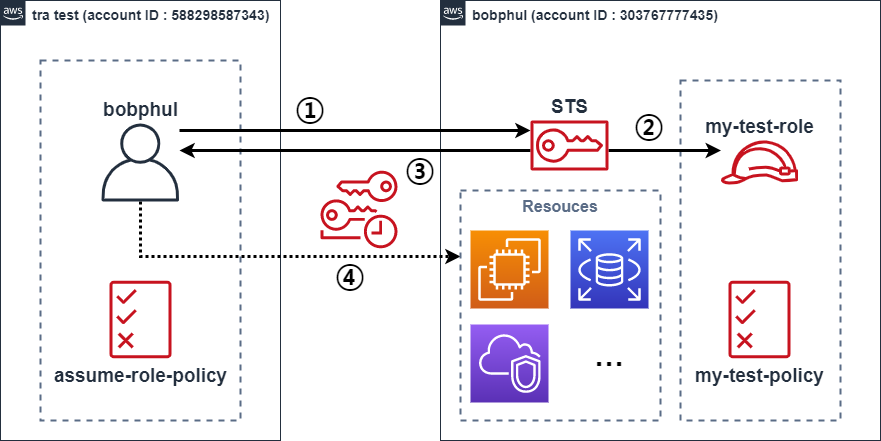
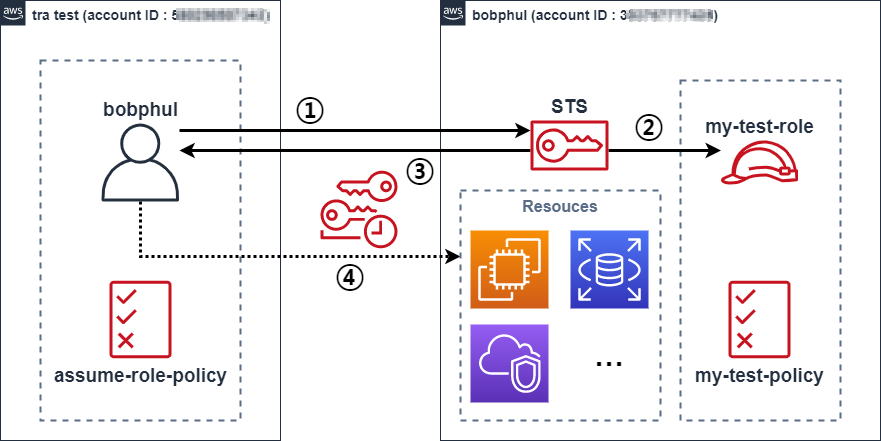
text fixed

Changed region(s): [[0.7049, 0.0, 0.8275, 0.059], [0.1839, 0.0, 0.3065, 0.059]]

diff --git a/IAM-Cross-Account-Control.md b/IAM-Cross-Account-Control.md
@@ -6,7 +6,7 @@ IAM Cross Account 테스트 용도로 구성
 일반적으로 계정 내 또는 계정 간 액세스에 사용하게 된다.
 
 # Environment
-- TRA Test 계정(`588298587343`)과 개인 Test 계정(`303767777435`)
+- TRA Test 계정(`5XXXXXXXXXX`)과 개인 Test 계정(`3XXXXXXXXXX`)
 - TRA Test 계정 <u>IAM 사용자</u>로 개인 계정 <u>IAM 사용자 없이</u> 콘솔에 로그인하여 사용 할 수 있다.
 - **모든 리소스**를 생성하고 삭제까지 가능하도록 **모든 권한**을 부여한다.
 
@@ -44,7 +44,7 @@ name : my-test-role
     {
       "Effect": "Allow",
       "Principal": {
-        "AWS": "arn:aws:iam::588298587343:user/bobphul"
+        "AWS": "arn:aws:iam::5XXXXXXXXXX:user/bobphul"
       },
       "Action": "sts:AssumeRole",
       "Condition": {}
@@ -53,7 +53,7 @@ name : my-test-role
 }
 ```
 Copy Role ARN & console link  
-`arn:aws:iam::303767777435:role/my-test-role`  
+`arn:aws:iam::3XXXXXXXXXX:role/my-test-role`  
 https://signin.aws.amazon.com/switchrole?roleName=my-test-role&account=2012504
 
 ## ~~TRA계정~~
@@ -67,7 +67,7 @@ name : assume-role-policy
     "Statement": {
         "Effect": "Allow",
         "Action": "sts:AssumeRole",
-        "Resource": "arn:aws:iam::303767777435:role/my-test-role"
+        "Resource": "arn:aws:iam::3XXXXXXXXXX:role/my-test-role"
     }
 }
 ```
@@ -85,7 +85,7 @@ C:\Users\<사용자>\.aws\credentials
 ```
 STS(Security Token Service)통한 Assume role 접근
 ```
-aws sts assume-role --role-arn "arn:aws:iam::303767777435:role/my-test-role" --role-session-name "MyTestSession01"
+aws sts assume-role --role-arn "arn:aws:iam::3XXXXXXXXXX:role/my-test-role" --role-session-name "MyTestSession01"
 ```
 
 AWS CLI 요청자 변경 확인
@@ -125,7 +125,7 @@ AWS CLI config 파일 추가
 [profile iamtest]
 region = ap-northeast-2
 source_profile = tratest
-role_arn = arn:aws:iam::303767777435:role/my-test-role
+role_arn = arn:aws:iam::3XXXXXXXXXX:role/my-test-role
 ```
 추가 설정 profile로 명령어 실행
 ```

diff --git a/KMS.md b/KMS.md
@@ -72,11 +72,11 @@ AWS KMS는 지정된 CMK를 이용해서 데이터키를 만든다.
 
 데이터 키 생성 예제  
 ```
-    aws kms generate-data-key --key-id arn:aws:kms:ap-northeast-2:303767777435:key/aa10bffa-5004-4398-b040-a43cb34c9388 --key-spec AES_256
+    aws kms generate-data-key --key-id arn:aws:kms:ap-northeast-2:3XXXXXXXXXXX:key/xxxxxxxx-xxxx-xxxx-xxxx-xxxxxxxxxxxx --key-spec AES_256
 
     {
         "Plaintext": "VjqR8leA8vEnkDRNiemYDMDS+aUoUwqaxTZ2JzDICxc=",
-        "KeyId": "arn:aws:kms:ap-northeast-2:303767777435:key/aa10bffa-5004-4398-b040-a43cb34c9388",
+        "KeyId": "arn:aws:kms:ap-northeast-2:3XXXXXXXXXXX:key/xxxxxxxx-xxxx-xxxx-xxxx-xxxxxxxxxxxx",
[1 lines of base64/hex data omitted]
     }  
 ```
@@ -88,7 +88,7 @@ AWS KMS는 지정된 CMK를 이용해서 데이터키를 만든다.
 
 환경변수  
 ```
-KEY_ID=fc99d67b-620a-4472-8ecd-b97895966776     # CMK ID
+KEY_ID=xxxxxxxx-xxxx-xxxx-xxxx-xxxxxxxxxxxx     # CMK ID
 SECRET_TEXT="cyberlogitec secret text"          # 암/복호화 테스트에 사용할 텍스트
 ENCRYPTED_SECRET_AS_BLOB=encrypted_secret_blob  # 암호화파일 이름
 DECRYPTED_SECRET_AS_BLOB=decrypted_secret_blob  # 복호화파일 이름
